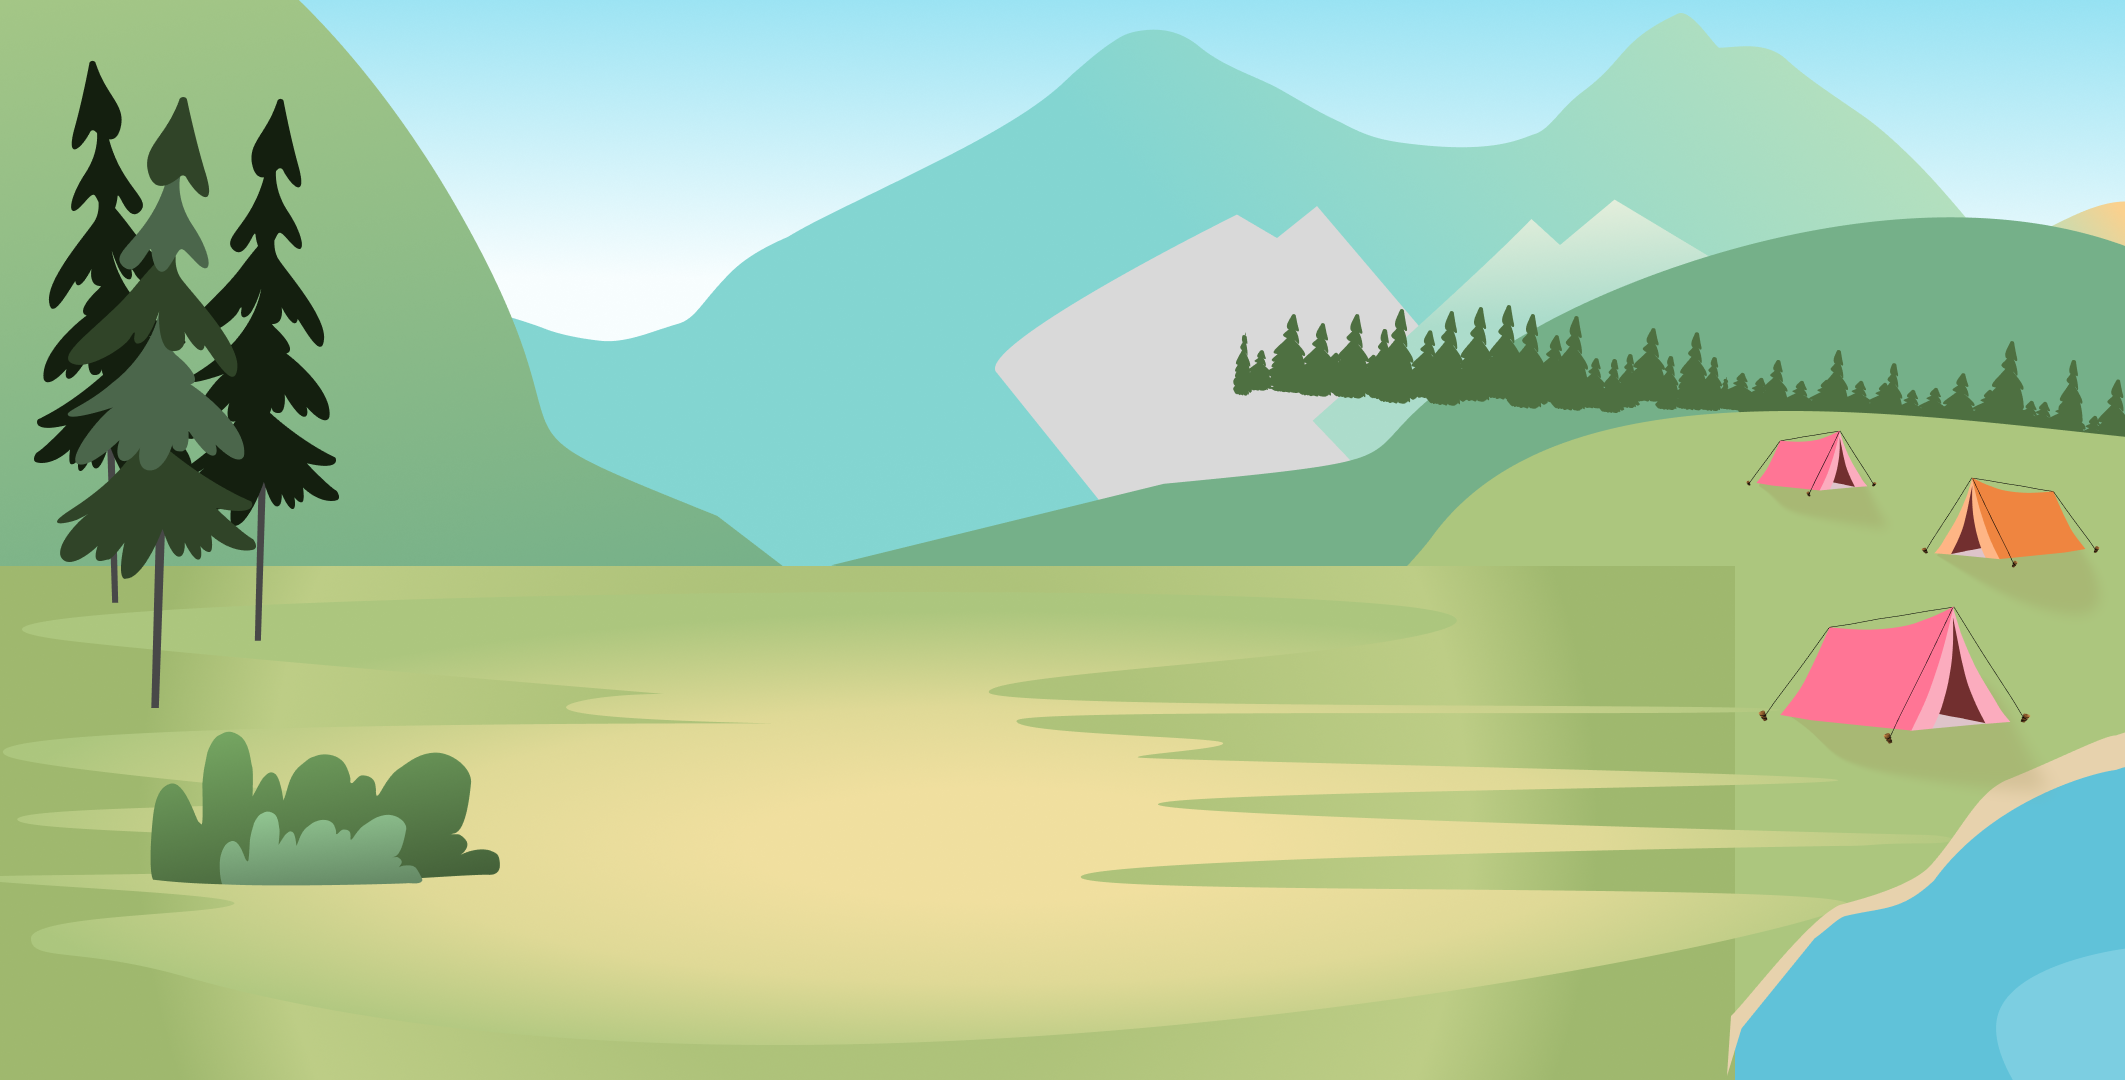
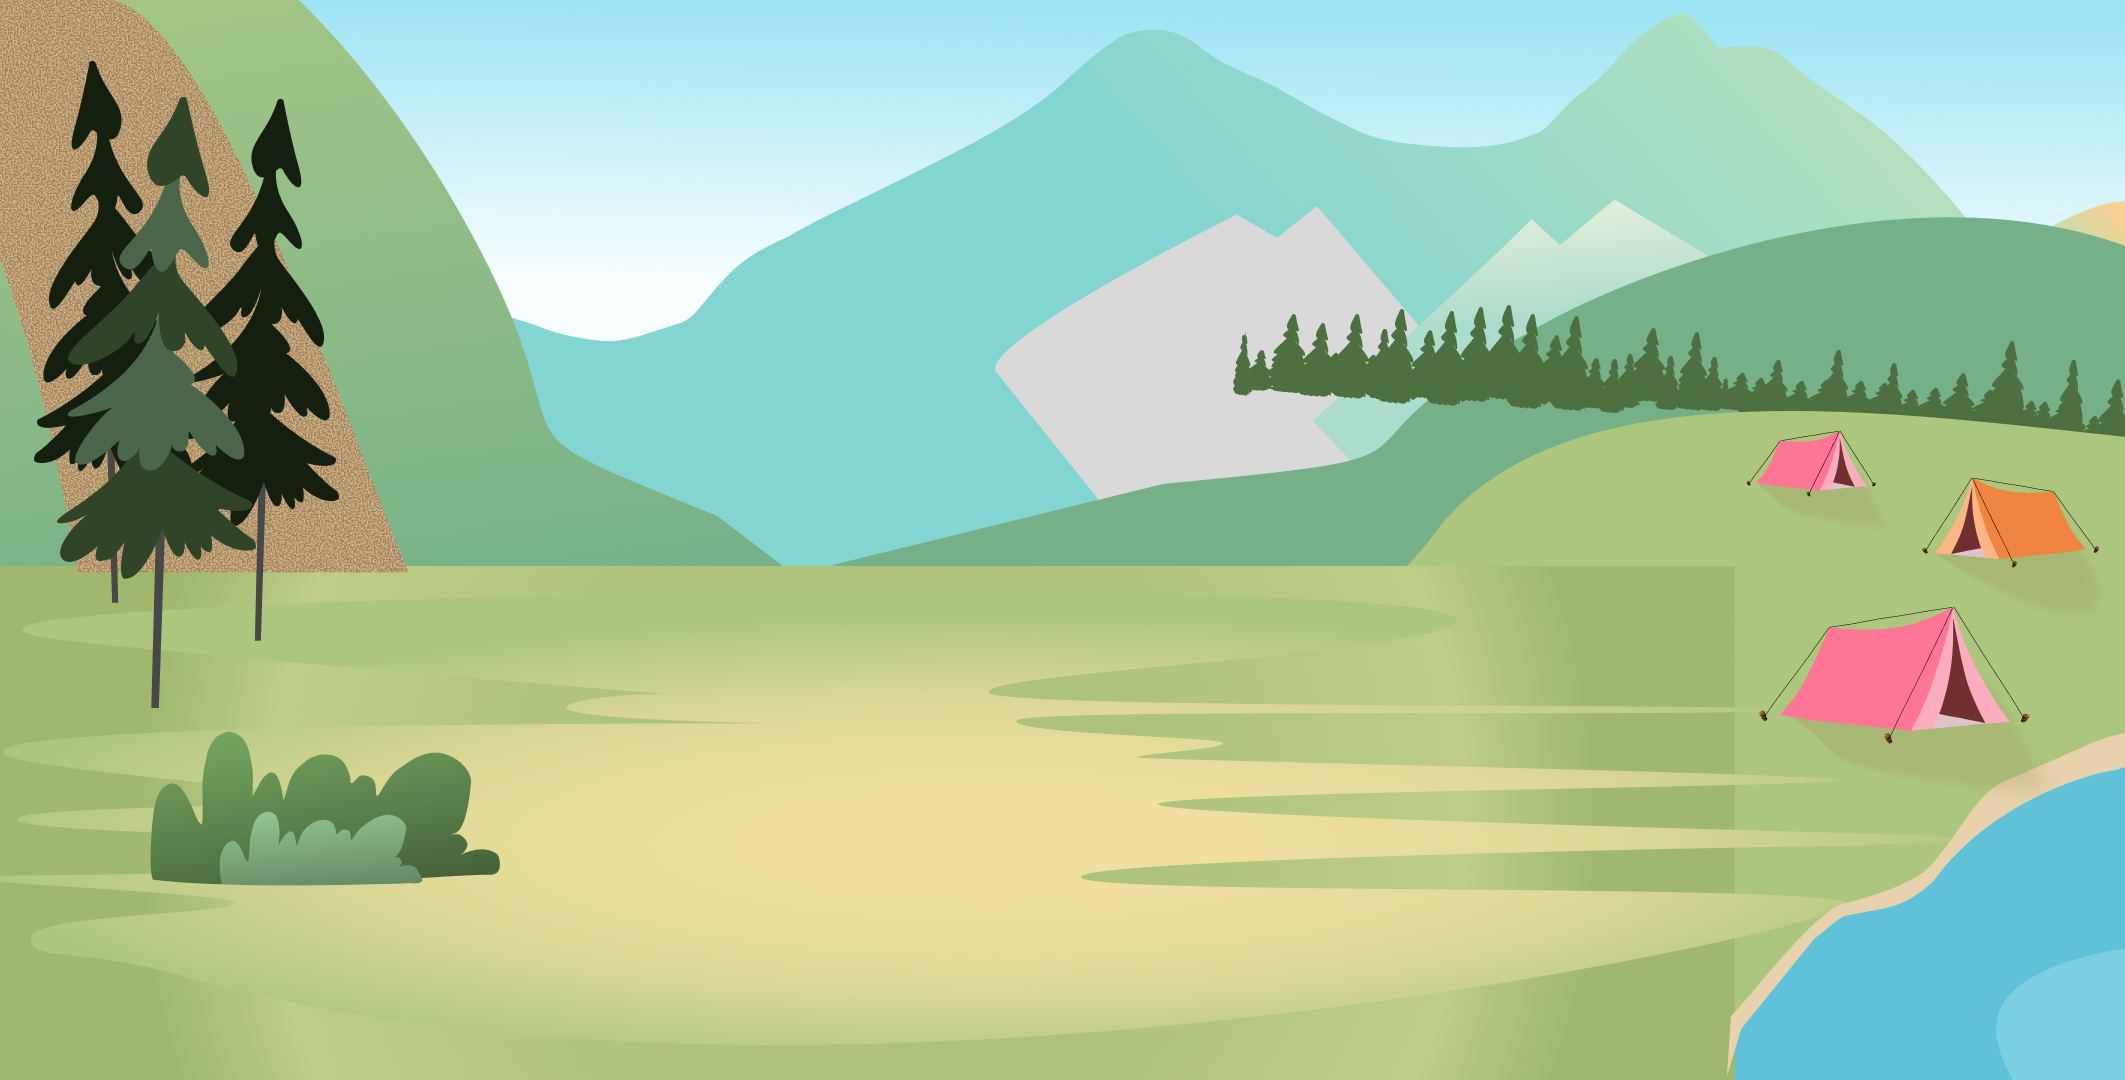
Fixup recap page

Changed region(s): [[0.0, 0.0, 0.1864, 0.55], [0.0311, 0.4278, 0.0621, 0.4889]]

diff --git a/src/sections/recap.tsx b/src/sections/recap.tsx
@@ -1,7 +1,16 @@
+import Image from "next/image";
+
 const Recap = () => {
   // Container min-height based on background image aspect ratio (2125÷1080 = 196.76vh)
   return (
-    <div className="relative bg-[url('/assets/recap/background.png')] bg-cover bg-center bg-no-repeat w-[196.76vh] h-screen flex flex-col items-center">
+    <div className="relative bg-[url('/assets/recap/background.png')] bg-cover bg-center bg-no-repeat w-screen h-screen flex flex-col items-center">
+      <Image
+        src="/assets/learn/tree.svg"
+        alt="Tree"
+        width={200}
+        height={800}
+        className="absolute -left-[6vw] bottom-[11vw] w-[12vw]"
+      />
       Recap
     </div>
   );

diff --git a/src/sections/stats-testimonials.tsx b/src/sections/stats-testimonials.tsx
@@ -70,11 +70,12 @@ export default function StatsTestimonials() {
   const scale = useTransform(scrollYProgress, [0.7, 1], [1, 0.95]);
   const opacity = useTransform(scrollYProgress, [0.8, 1], [1, 0.8]);
 
+  // Container min-height based on background image aspect ratio (2459÷1920 = 128.07vw)
   return (
     <motion.div
       ref={containerRef}
       style={{ scale, opacity }}
-      className="relative w-full min-h-[230vh] overflow-hidden"
+      className="relative w-full h-[128.07vw] overflow-hidden"
     >
       <div className="absolute inset-0 z-0">
         <Image

diff --git a/src/app/page.tsx b/src/app/page.tsx
@@ -21,7 +21,7 @@ export default function Home() {
         <Recap />
         <StatsTestimonials />
       </HorizontalScrollSection>
-      <div className="h-[calc(230vh-100vh)] w-full"></div>
+      <div className="h-[calc(128.07vw-100vh)] w-full"></div>
       <TenYears />
       <Faq />
       <SponsorFooter />
